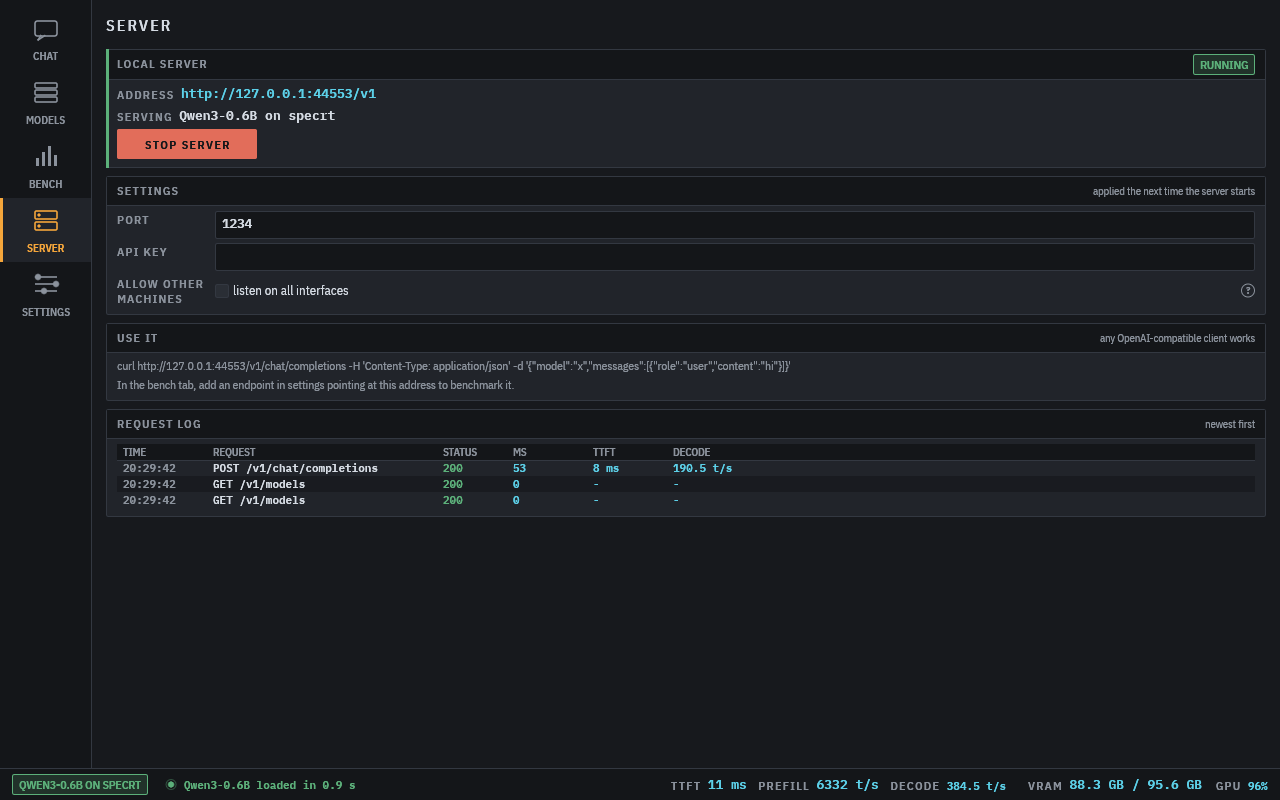
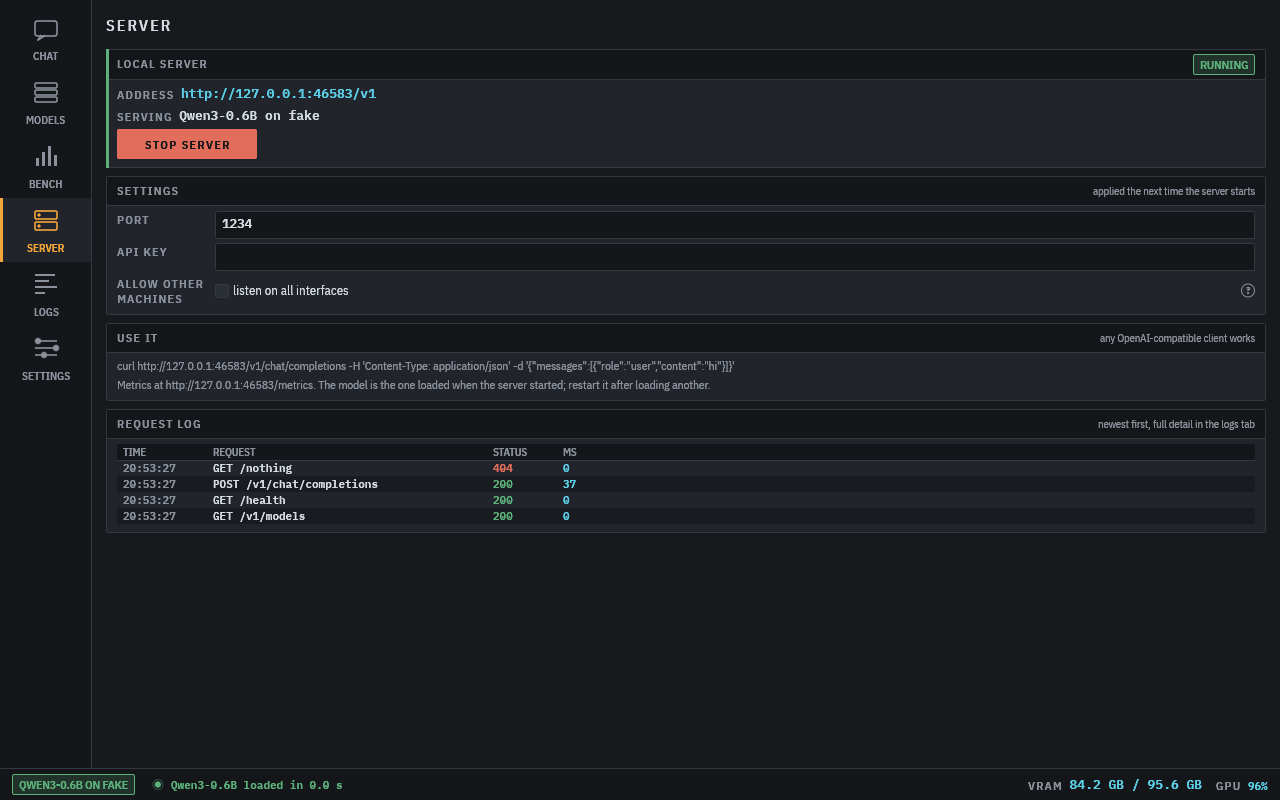
Logs screenshots, log line dedupe

diff --git a/crates/ui/src/tests.rs b/crates/ui/src/tests.rs
@@ -399,3 +399,47 @@ fn screenshots_with_real_data() {
     h.state_mut().models.pane = crate::models::Pane::Discover;
     shot(&mut h, "models-discover");
 }
+
+#[test]
+#[ignore = "renders with wgpu; run with SHOTS=docs/gui"]
+fn screenshots_of_the_server_and_logs_tabs() {
+    let out = PathBuf::from(std::env::var("SHOTS").unwrap_or("docs/gui".into()));
+    std::fs::create_dir_all(&out).unwrap();
+    let fake = FakeServer::start(script());
+    let mut h = harness("shots-logs", Tab::Server);
+    {
+        let app = h.state_mut();
+        app.logs = shared_logs();
+        app.logs.clear();
+        app.settings.endpoints = vec![Endpoint { label: "fake".into(), backend: "vllm".into(), url: fake.url.clone(), api_key: String::new() }];
+        let m = app.library[0].clone();
+        app.load_model("fake", &m);
+    }
+    pump_until(&mut h, 20, "load", |a| a.loaded().is_some());
+    {
+        let handle = h.state().engine.handle();
+        let url = {
+            let app = h.state_mut();
+            app.server.start(handle, 0, "", false);
+            let url = app.server.running.as_ref().unwrap().url();
+            let _ = ureq::get(format!("{url}/v1/models")).call();
+            let _ = ureq::get(format!("{url}/health")).call();
+            let _ = ureq::post(format!("{url}/v1/chat/completions"))
+                .send_json(serde_json::json!({"messages":[{"role":"user","content":"Say hi"}],"max_tokens":24}));
+            let _ = ureq::get(format!("{url}/nothing")).call();
+            tracing::warn!(target: "specrt", "jit cache miss, compiling kernels");
+            std::thread::sleep(Duration::from_millis(200));
+            url
+        };
+        assert!(url.starts_with("http://"));
+    }
+    let shot = |h: &mut Harness<'static, App>, name: &str| {
+        h.run();
+        h.render().unwrap().save(out.join(format!("{name}.png"))).unwrap();
+    };
+    shot(&mut h, "server");
+    h.state_mut().tab = Tab::Logs;
+    h.state_mut().logs_ui.level = tracing::Level::DEBUG;
+    shot(&mut h, "logs");
+    h.state_mut().server.stop();
+}

diff --git a/crates/core/src/logging.rs b/crates/core/src/logging.rs
@@ -302,7 +302,7 @@ impl LogEntry {
             self.target,
             self.message
         );
-        for (k, v) in self.spans.iter().chain(self.fields.iter()) {
+        for (k, v) in self.spans.iter().filter(|(k, _)| !self.fields.iter().any(|(f, _)| f == k)).chain(self.fields.iter()) {
             let _ = write!(s, " {k}={v}");
         }
         s
